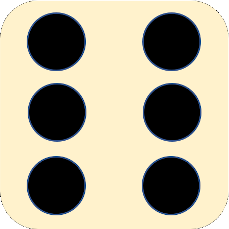
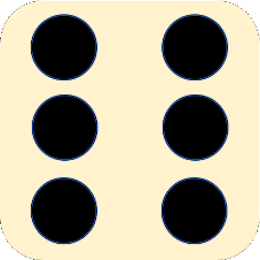
14.05.

diff --git a/src/spiel/DicePanel.java b/src/spiel/DicePanel.java
@@ -15,8 +15,7 @@ public class DicePanel extends JPanel {
 
     public DicePanel() {
         setLayout(new BoxLayout(this, BoxLayout.Y_AXIS));
-        setBorder(new EmptyBorder(new Insets(10, 10, 10, 10)));
-        //setBorder(BorderFactory.createLineBorder(Color.WHITE, 5));
+        setBorder(BorderFactory.createLineBorder(Color.WHITE, 5));
 
         ImageIcon diceOne = new ImageIcon(getClass().getResource("images/wuerfel1.png"));
         ImageIcon diceTwo = new ImageIcon(getClass().getResource("images/wuerfel2.png"));
@@ -31,12 +30,13 @@ public class DicePanel extends JPanel {
         diceButton.setIcon(diceOne);
         add(diceButton);
         diceButton.setBackground(Color.BLACK);
+        diceButton.setMargin(new Insets(15, 15, 15, 15));
         diceButton.setBorderPainted(false);
 
         add(Box.createVerticalGlue());
 
         JButton wuerfelnButton = new JButton("Würfeln");
-        wuerfelnButton.setSize(new Dimension(263, 50));
+        wuerfelnButton.setMaximumSize(new Dimension(263, 50));
         wuerfelnButton.setAlignmentX(CENTER_ALIGNMENT);
         wuerfelnButton.addActionListener(e -> {
             Wuerfel wuerfel = new Wuerfel();
@@ -48,19 +48,19 @@ public class DicePanel extends JPanel {
             if (augenzahl == 1){
                 diceButton.setIcon(diceOne);
             }
-            if (augenzahl == 2){
+            else if (augenzahl == 2){
                 diceButton.setIcon(diceTwo);
             }
-            if (augenzahl == 3){
+            else if (augenzahl == 3){
                 diceButton.setIcon(diceThree);
             }
-            if (augenzahl == 4){
+            else if (augenzahl == 4){
                 diceButton.setIcon(diceFour);
             }
-            if (augenzahl == 5){
+            else if (augenzahl == 5){
                 diceButton.setIcon(diceFive);
             }
-            if (augenzahl == 6){
+            else if (augenzahl == 6){
                 diceButton.setIcon(diceSix);
             }
 

diff --git a/src/spiel/PlayerPanel.java b/src/spiel/PlayerPanel.java
@@ -1,0 +1,46 @@
+package spiel;
+
+
+import javax.imageio.ImageIO;
+import javax.swing.*;
+import javax.swing.border.EmptyBorder;
+import java.awt.*;
+import java.awt.event.ActionEvent;
+import java.awt.event.ActionListener;
+import java.io.IOException;
+import java.net.URL;
+
+
+public class PlayerPanel extends JPanel {
+
+
+    public PlayerPanel() {
+        setLayout(new BoxLayout(this, BoxLayout.Y_AXIS));
+        setBorder(new EmptyBorder(new Insets(10, 10, 10, 10)));
+        add(Box.createVerticalGlue());
+
+        JLabel playerOne = new JLabel("Player1");
+        JLabel playerTwo = new JLabel("Player2");
+        JLabel playerThree = new JLabel("Player3");
+        JLabel playerFour = new JLabel("Player4");
+
+        playerOne.setSize(new Dimension(50, 20));
+        playerTwo.setSize(new Dimension(50, 20));
+        playerThree.setSize(new Dimension(50, 20));
+        playerFour.setSize(new Dimension(50, 20));
+
+        playerOne.setForeground(Color.WHITE);
+
+        add(playerOne);
+        add(playerTwo);
+        add(playerThree);
+        add(playerFour);
+
+
+
+
+
+
+    }
+}
+

diff --git a/src/spiel/GamePanel.java b/src/spiel/GamePanel.java
@@ -198,6 +198,11 @@ public class GamePanel extends JPanel {
         dicePanel.setBackground(Color.BLACK);
         add(dicePanel, BorderLayout.EAST);
         dicePanel.setVisible(true);
+
+        PlayerPanel playerPanel = new PlayerPanel();
+        playerPanel.setBackground(Color.BLACK);
+        add(playerPanel, BorderLayout.WEST);
+        playerPanel.setVisible(true);
     }
 
 
